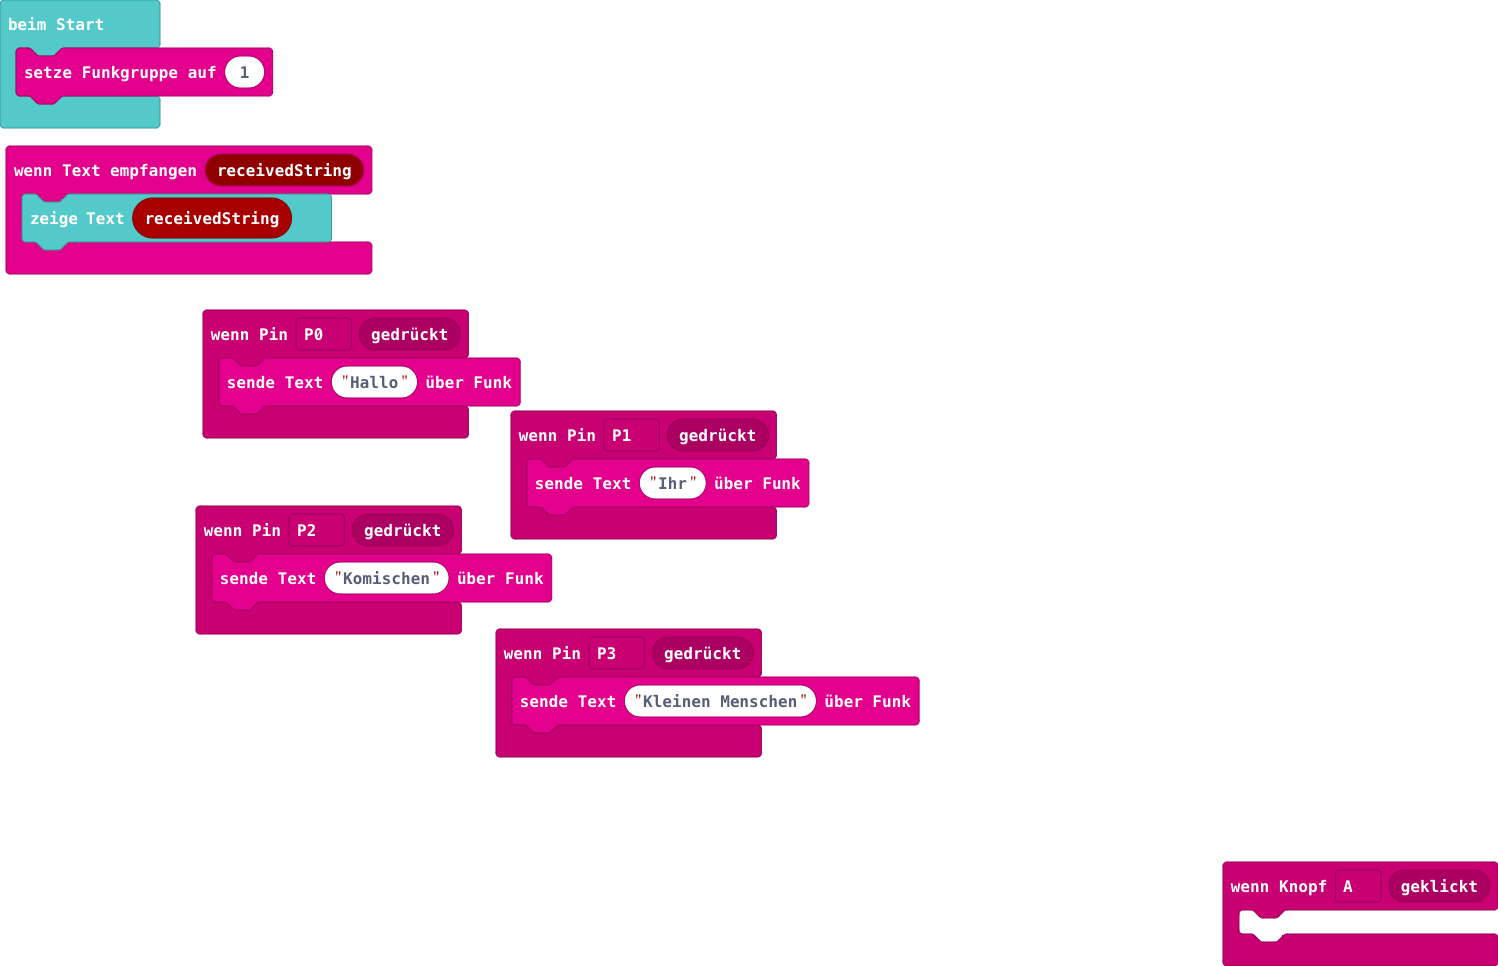
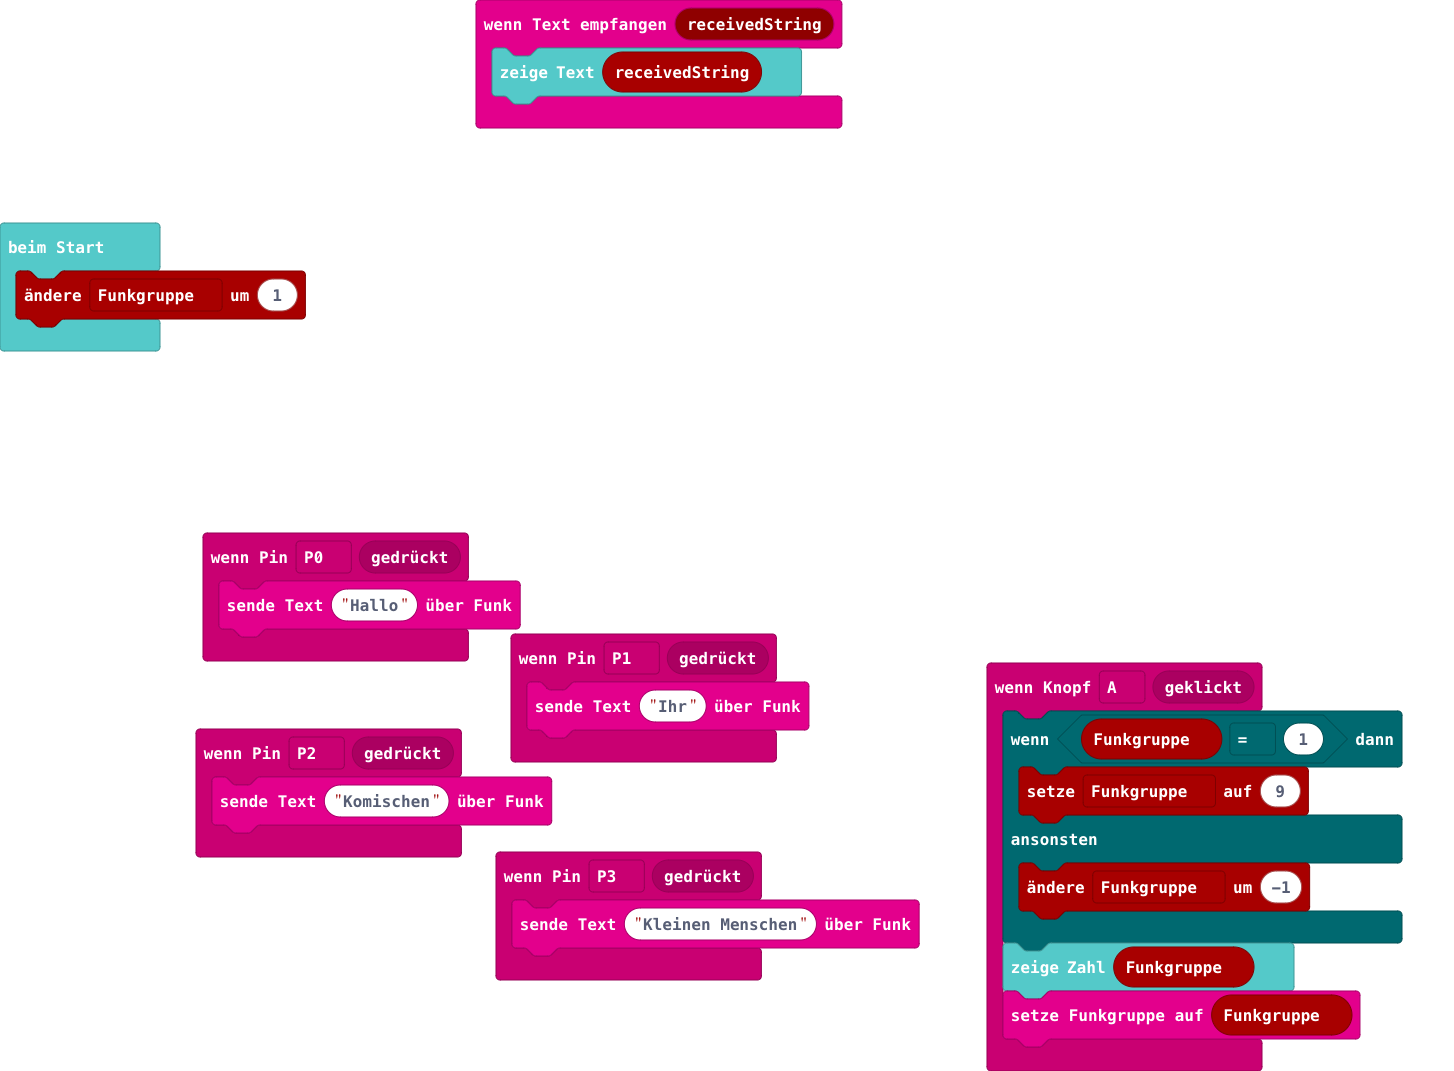
Aktualisiere main.blocks, main.ts

diff --git a/main.ts b/main.ts
@@ -2,7 +2,13 @@ input.onPinTouchEvent(TouchPin.P1, input.buttonEventDown(), function () {
     radio.sendString("Ihr")
 })
 input.onButtonEvent(Button.A, input.buttonEventClick(), function () {
-	
+    if (Funkgruppe == 1) {
+        Funkgruppe = 9
+    } else {
+        Funkgruppe += -1
+    }
+    basic.showNumber(Funkgruppe)
+    radio.setGroup(Funkgruppe)
 })
 radio.onReceivedString(function (receivedString) {
     basic.showString(receivedString)
@@ -16,4 +22,5 @@ input.onPinTouchEvent(TouchPin.P2, input.buttonEventDown(), function () {
 input.onPinTouchEvent(TouchPin.P3, input.buttonEventDown(), function () {
     radio.sendString("Kleinen Menschen")
 })
-radio.setGroup(1)
+let Funkgruppe = 0
+Funkgruppe += 1
